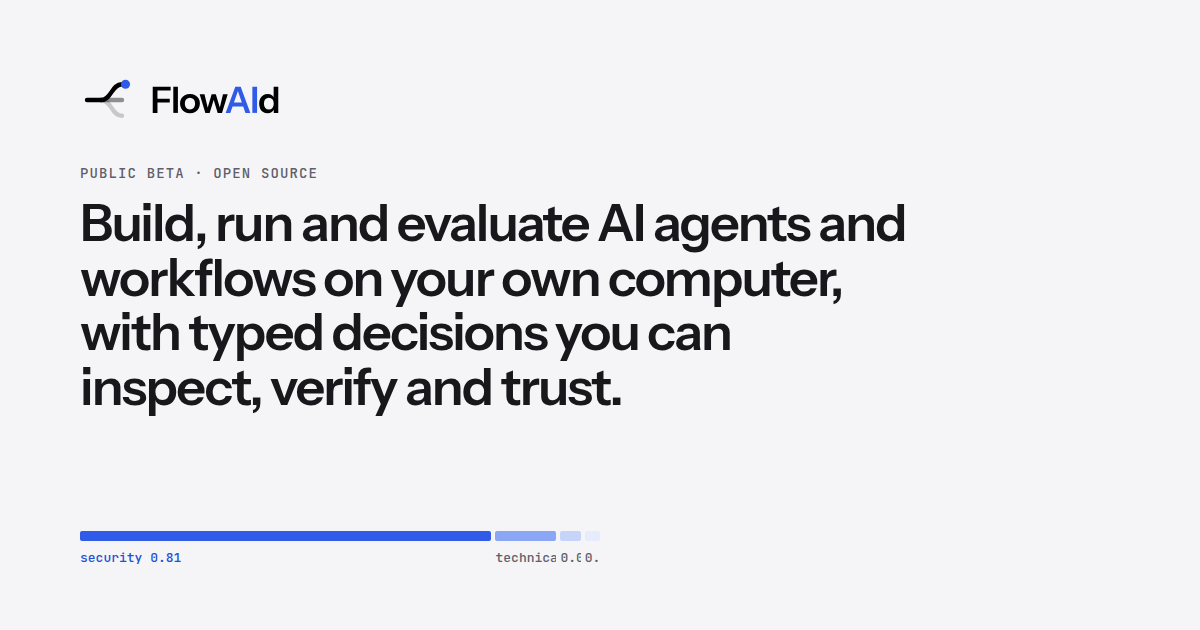
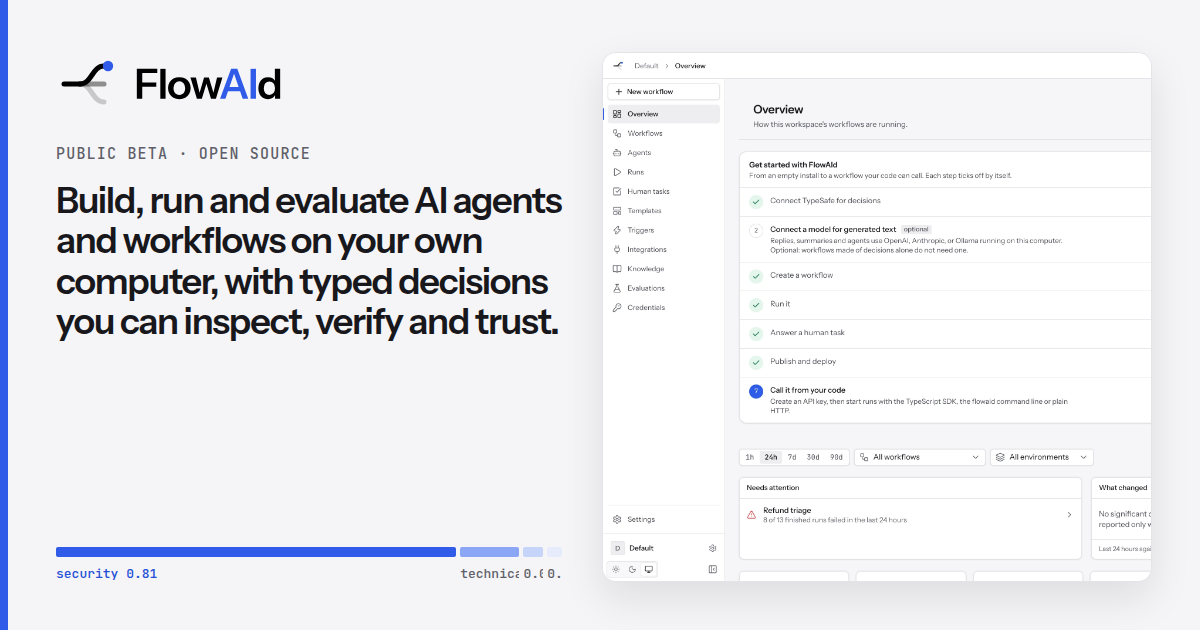
Rebuild the Open Graph card with the lockup and product overview.
The 1200x630 image is committed at site/og.png and copied into the Pages artifact. Social tags use absolute https URLs.

diff --git a/site/og.html b/site/og.html
@@ -33,7 +33,17 @@
         box-sizing: border-box;
         width: 1200px;
         height: 630px;
-        padding: 72px 80px 64px;
+        padding: 52px 48px 48px 56px;
+        display: flex;
+        align-items: stretch;
+        gap: 40px;
+        background:
+          linear-gradient(#2f5be8, #2f5be8) left / 8px 100% no-repeat,
+          #f5f5f7;
+      }
+      .copy {
+        flex: 1;
+        min-width: 0;
         display: flex;
         flex-direction: column;
       }
@@ -43,35 +53,34 @@
         gap: 16px;
       }
       .lockup img.mark {
-        width: 56px;
-        height: 56px;
+        width: 64px;
+        height: 64px;
       }
       .lockup img.word {
-        height: 28px;
+        height: 32px;
         width: auto;
       }
       .eyebrow {
-        margin: 36px 0 0;
+        margin: 28px 0 0;
         font-family: "JetBrains Mono", monospace;
-        font-size: 14px;
+        font-size: 15px;
         font-weight: 500;
         letter-spacing: 0.08em;
         text-transform: uppercase;
         color: #5f5f69;
       }
       h1 {
-        margin: 14px 0 0;
-        max-width: 16em;
-        font-size: 52px;
+        margin: 16px 0 0;
+        font-size: 36px;
         font-weight: 600;
         letter-spacing: -0.035em;
-        line-height: 1.05;
+        line-height: 1.12;
       }
       .ruler {
         display: flex;
         gap: 4px;
         height: 10px;
-        width: 520px;
+        width: 100%;
         margin-top: auto;
       }
       .ruler i {
@@ -81,7 +90,7 @@
       .legend {
         display: flex;
         gap: 4px;
-        width: 520px;
+        width: 100%;
         margin: 8px 0 0;
         font-family: "JetBrains Mono", monospace;
         font-size: 13px;
@@ -94,28 +103,49 @@
       .legend span:first-child {
         color: #2450d6;
       }
+      .frame {
+        flex: none;
+        width: 548px;
+        border-radius: 14px;
+        border: 1px solid #e3e3e8;
+        background: #ffffff;
+        overflow: hidden;
+        box-shadow: 0 16px 40px rgba(23, 23, 28, 0.1);
+      }
+      .frame img {
+        display: block;
+        width: 100%;
+        height: 100%;
+        object-fit: cover;
+        object-position: left top;
+      }
     </style>
   </head>
   <body>
     <div class="card">
-      <div class="lockup">
-        <img class="mark" src="../brand/logo-mark-accent.svg" alt="" />
-        <img class="word" src="../brand/logo-wordmark.svg" alt="FlowAId" />
+      <div class="copy">
+        <div class="lockup">
+          <img class="mark" src="../brand/logo-mark-accent.svg" alt="" />
+          <img class="word" src="../brand/logo-wordmark.svg" alt="FlowAId" />
+        </div>
+        <p class="eyebrow">Public beta · open source</p>
+        <h1>Build, run and evaluate AI agents and workflows on your own computer, with typed decisions you can inspect, verify and trust.</h1>
+        <div class="ruler" aria-hidden="true">
+          <i style="flex: 81; background: #2f5be8"></i>
+          <i style="flex: 12; background: #8aa6f4"></i>
+          <i style="flex: 4; background: #c6d4fa"></i>
+          <i style="flex: 3; background: #e6ecfb"></i>
+        </div>
+        <p class="legend" aria-hidden="true">
+          <span style="flex: 81">security 0.81</span>
+          <span style="flex: 12">technical 0.12</span>
+          <span style="flex: 4">0.04</span>
+          <span style="flex: 3">0.03</span>
+        </p>
       </div>
-      <p class="eyebrow">Public beta · open source</p>
-      <h1>Build, run and evaluate AI agents and workflows on your own computer, with typed decisions you can inspect, verify and trust.</h1>
-      <div class="ruler" aria-hidden="true">
-        <i style="flex: 81; background: #2f5be8"></i>
-        <i style="flex: 12; background: #8aa6f4"></i>
-        <i style="flex: 4; background: #c6d4fa"></i>
-        <i style="flex: 3; background: #e6ecfb"></i>
+      <div class="frame">
+        <img src="../docs/assets/screenshots/overview-light.webp" alt="" />
       </div>
-      <p class="legend" aria-hidden="true">
-        <span style="flex: 81">security 0.81</span>
-        <span style="flex: 12">technical 0.12</span>
-        <span style="flex: 4">0.04</span>
-        <span style="flex: 3">0.03</span>
-      </p>
     </div>
   </body>
 </html>

diff --git a/site/README.md b/site/README.md
@@ -16,7 +16,7 @@ node site/build.mjs
 
 Output is `site/dist/`. Asset URLs are relative, so the same files work at the domain root and under the `/flowaid/` project path. `SITE_URL` overrides the canonical and social URLs (the Pages workflow passes the `base_url` from `actions/configure-pages`).
 
-`node site/build.mjs --og` re-renders `site/og.png` from `site/og.html` with Chrome.
+`node site/build.mjs --og` re-renders `site/og.png` from `site/og.html` with Chrome. The card is 1200×630: the lockup, the tagline, the probability ruler, and the overview screenshot. The built page points `og:image`, `og:url` and `twitter:image` at absolute `https://` URLs, and the Pages artifact includes `og.png`.
 
 ## Preview
 
